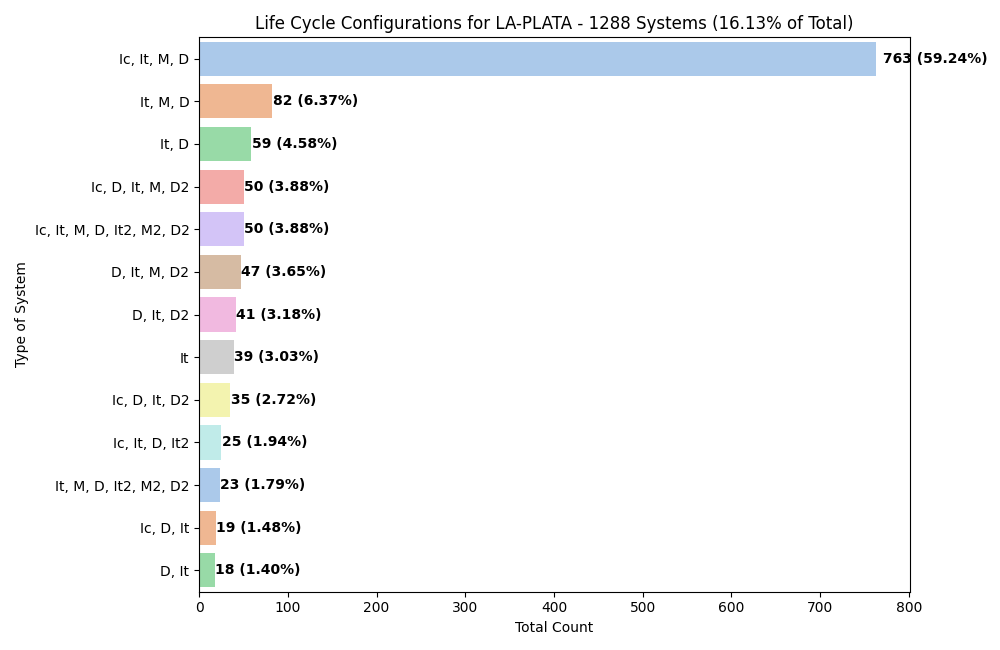
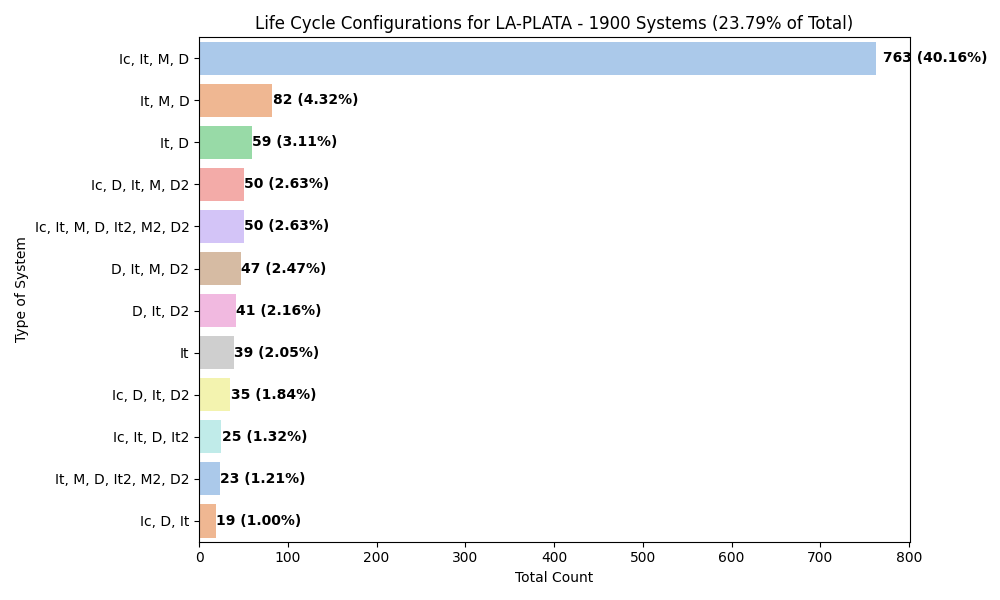
updated: counts for region

diff --git a/src_determine_patterns/life_cycle_by_region.py b/src_determine_patterns/life_cycle_by_region.py
@@ -6,7 +6,7 @@
 #    By: daniloceano <danilo.oceano@gmail.com>      +#+  +:+       +#+         #
 #                                                 +#+#+#+#+#+   +#+            #
 #    Created: 2024/03/01 15:35:50 by daniloceano       #+#    #+#              #
-#    Updated: 2024/03/01 16:11:04 by daniloceano      ###   ########.fr        #
+#    Updated: 2024/03/01 16:21:38 by daniloceano      ###   ########.fr        #
 #                                                                              #
 # **************************************************************************** #
 
@@ -46,7 +46,7 @@ def filter_life_cycles_by_region(base_path, region_ids):
                 
     return life_cycles_by_region
 
-def plot_barplot_by_region(life_cycles_by_region, output_directory, total_system_count):
+def plot_barplot_by_region(life_cycles_by_region, output_directory, total_system_count, region_system_count_df):
     """
     Generates bar plots for life cycle configurations by genesis region.
     """
@@ -58,8 +58,10 @@ def plot_barplot_by_region(life_cycles_by_region, output_directory, total_system
 
     for region, life_cycles in life_cycles_by_region.items():
         # Prepare DataFrame and calculate percentage
+        region_system_count = region_system_count_df.loc[region, 'Total Systems']
+
         df = pd.DataFrame.from_records([(x, y) for x, y in life_cycles.items()], columns=['Type of System', 'Total Count'])
-        df['Percentage'] = (df['Total Count'] / df['Total Count'].sum()) * 100
+        df['Percentage'] = (df['Total Count'] / region_system_count) * 100
         df = df[df['Percentage'] >= 1]  # Filter out configurations with less than 1%
         
         df['Type of System'] = df['Type of System'].apply(lambda x: ', '.join([letter_codes.get(phase, phase) for phase in x]))
@@ -91,7 +93,7 @@ if __name__ == "__main__":
     region_ids = read_region_system_ids(region_dir)
     life_cycles_by_region = filter_life_cycles_by_region(base_path, region_ids)
 
-    region_system_count
+    region_system_count_df = pd.read_csv(os.path.join(region_dir, 'genesis_region_summary.csv'), index_col=0)
 
     total_system_count = sum(len(ids) for ids in region_ids.values())  # Calculate the total number of systems across all regions
-    plot_barplot_by_region(life_cycles_by_region, output_directory, total_system_count)
+    plot_barplot_by_region(life_cycles_by_region, output_directory, total_system_count, region_system_count_df)
